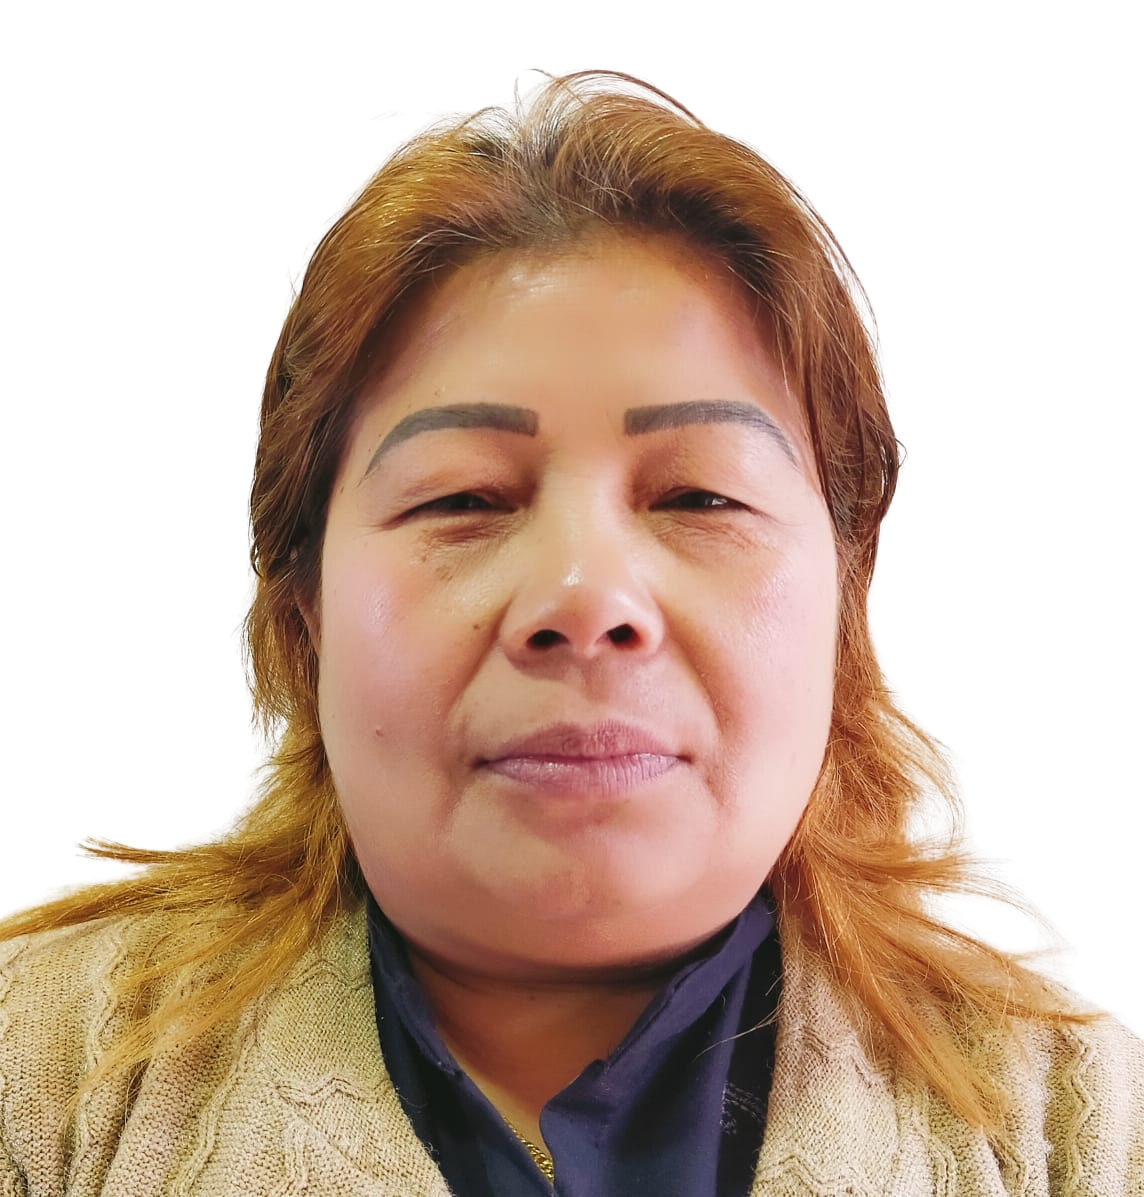
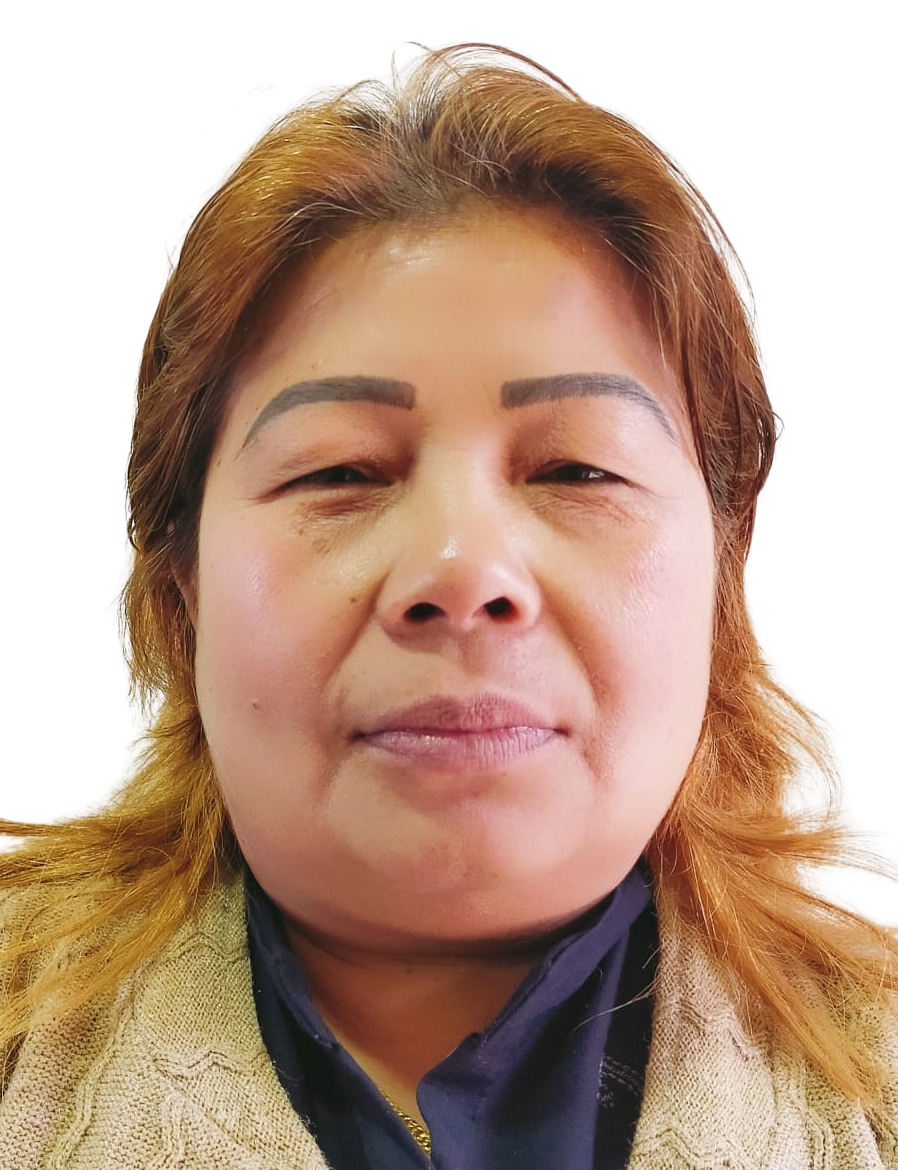
fff

diff --git a/src/app/page.tsx b/src/app/page.tsx
@@ -75,8 +75,8 @@ export default function Home() {
         className={`py-16 ${theme === "dark" ? "bg-gray-800" : "bg-gray-50"}`}
       >
         <div className="container mx-auto px-4">
-          <div className="grid md:grid-cols-3 gap-12 items-center">
-            <div className="md:col-span-2">
+          <div className="grid md:grid-cols-2 gap-12 items-center">
+            <div className="">
               <h2
                 className={`text-3xl font-bold mb-6 ${
                   theme === "dark" ? "text-white" : "text-gray-900"
@@ -110,7 +110,8 @@ export default function Home() {
                 Learn more about us <ArrowRight className="ml-2 h-4 w-4" />
               </Link>
             </div>
-            <div className="relative w-60 h-80 bg-transparent ">
+            <div className="flex justify-center items-center flex-wrap  md:gap-8">
+            <div className="relative w-50 h-70 bg-transparent ">
               <Image
                 src="/ceo.png?height=500&width=400"
                 alt="Our Mission"
@@ -118,6 +119,19 @@ export default function Home() {
                 height={500}
                 className="object-cover rounded-2xl bg-contain shadow-lg shadow-gray-950"
               />
+              <p className="text-center text-gray-500 pt-2">Executive Director</p>
+            </div>
+            <div className="relative w-55 h-80 bg-transparent ">
+              <Image
+                src="/chairman.png?height=500&width=400"
+                alt="Our Mission"
+                width={400}
+                height={500}
+                className="object-cover rounded-2xl bg-contain shadow-lg shadow-gray-950"
+              />
+              <p className="text-center text-gray-500 pt-2">Chairman</p>
+            </div>
+
             </div>
           </div>
         </div>

diff --git a/src/app/about/page.tsx b/src/app/about/page.tsx
@@ -261,14 +261,14 @@ export default function AboutPage() {
           <div className="grid grid-cols-1 sm:grid-cols-2 lg:grid-cols-4 gap-8">
             {[
               {
-                name: "Rajesh Sharma",
+                name: "Rajesh Sharma For Now",
                 title: "Executive Director",
-                image: "/slider2.png?height=300&width=300",
+                image: "/ceo.png?height=300&width=300",
               },
               {
-                name: "Sunita Gurung",
-                title: "Program Director",
-                image: "/profile1.png?height=300&width=300",
+                name: "Sunita Gurung For now",
+                title: "Chairman",
+                image: "/chairman.png?height=300&width=300",
               },
               {
                 name: "Binod Thapa",
@@ -292,7 +292,7 @@ export default function AboutPage() {
                     src={member.image || "/placeholder.svg"}
                     alt={member.name}
                     fill
-                    className="object-cover"
+                    className="object-contain "
                   />
                 </div>
                 <h3 className="text-xl font-bold">{member.name}</h3>
